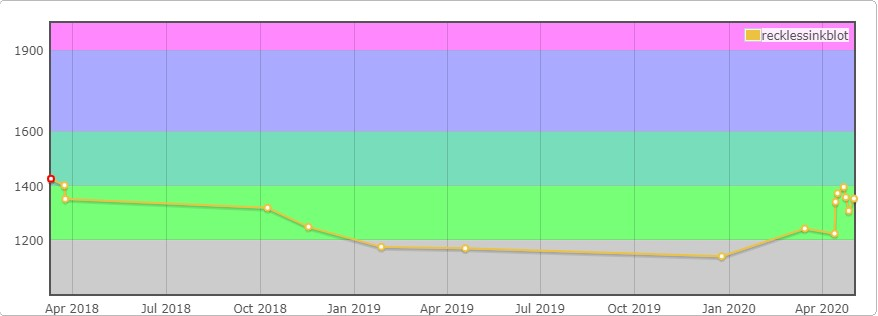
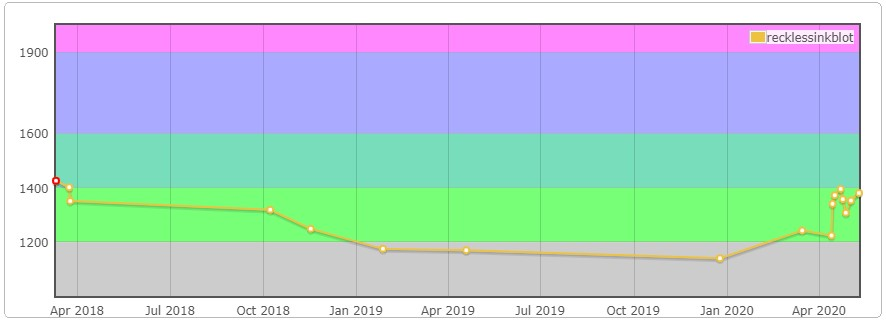
cp page

Changed region(s): [[0.0, 0.0, 1.0, 1.0]]

diff --git a/cp/cp.md b/cp/cp.md
@@ -103,13 +103,13 @@ Started taking competitive programming seriously around March 2020.
 
 ### Codeforces Contests
 
-Contest rating: `1352`
+Contest rating: `1380`
 
 <img src="codeforces.jpg"/>
 
 [https://codeforces.com/contests/with/recklessinkblot](https://codeforces.com/contests/with/recklessinkblot)
 
-- Codeforces Round \#640 Div 4, Rank `5647`, Solved `4`
+- Codeforces Round \#640 Div 4, Rank `2631`, Solved `4`
 - Codeforces Round \#639 Div 2, Rank `4418`, Solved `2` (Unranked due to server issues)
 - Codeforces Round \#638 Div 2, Rank `5501`, Solved `2`
 - Education Codeforces Round 86 Div 2, Rank `10178`, Solved `1` (YIKES)
@@ -132,12 +132,13 @@ Contest rating: `1352`
 
 [https://binarysearch.io/@/recklessinkblot](https://binarysearch.io/@/recklessinkblot)
 
-Ranking `50`
+Ranking `38`
 
-Rating `1575`
+Rating `1653`
 
-Participated `1`
+Participated `3`
 
+- Contest 6: Placed `12th` solved 3/4 scored 12 points and solved in 24 minutes, 4 seconds
 - Contest 5: Placed `15th` solved 3/4 scored 12 points and solved in 49 minutes, 37 seconds (Unranked due to server issues)
 - Contest 4: Placed `23rd` solved 2/4 scored 7 points and solved in 28 minutes, 29 seconds
 
